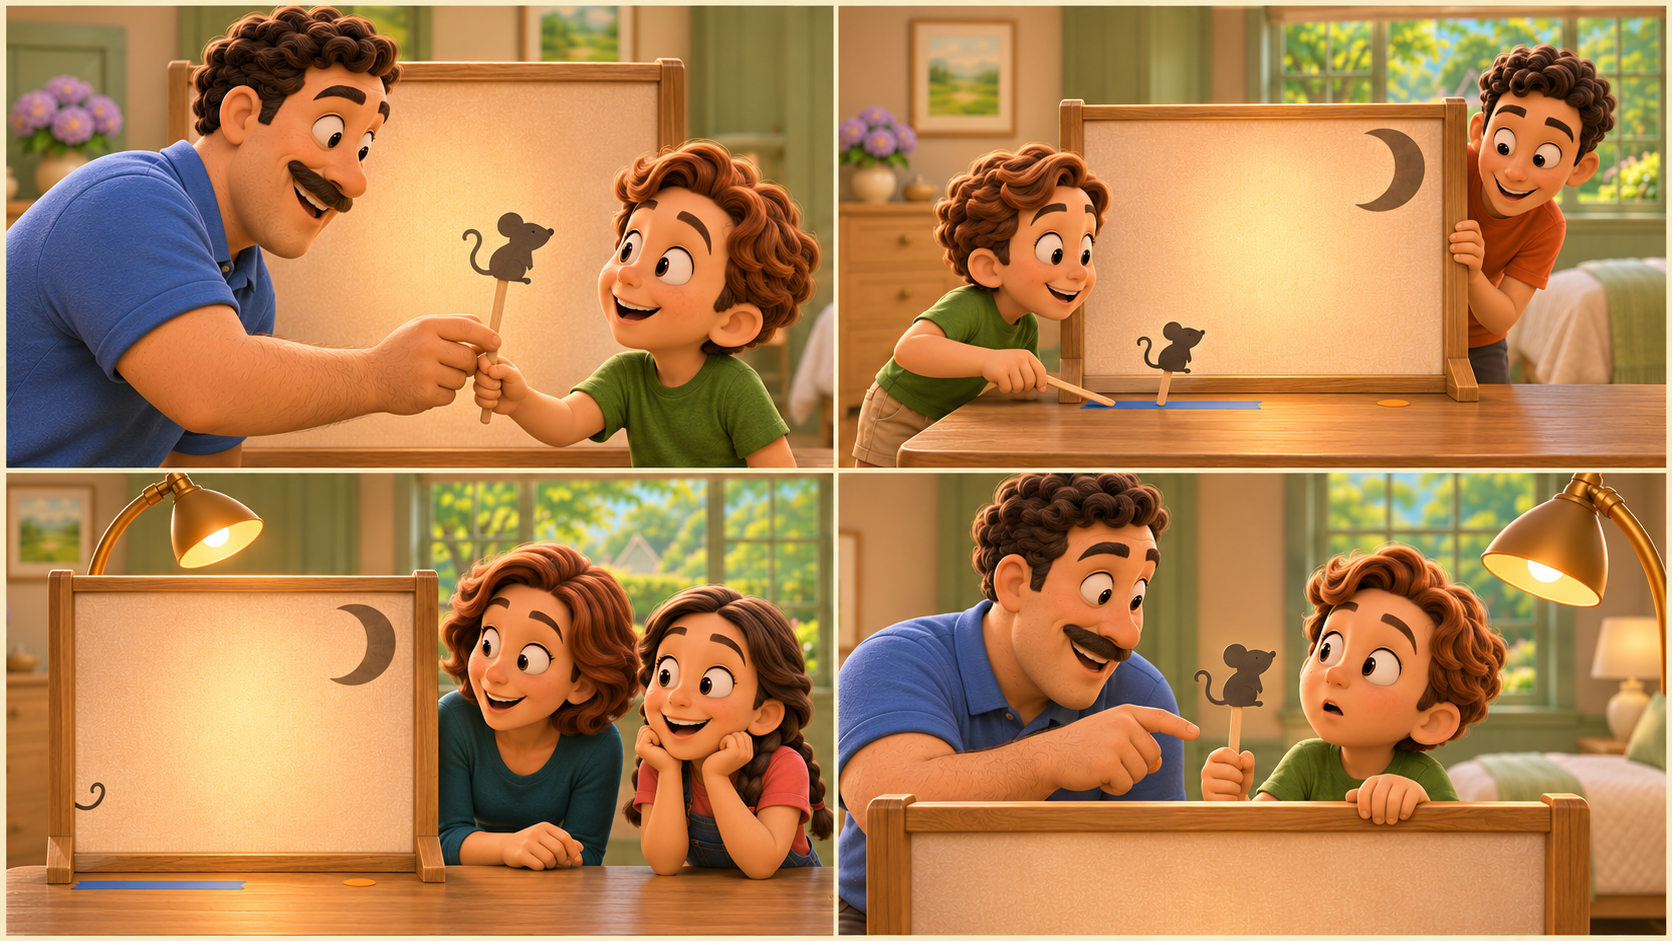
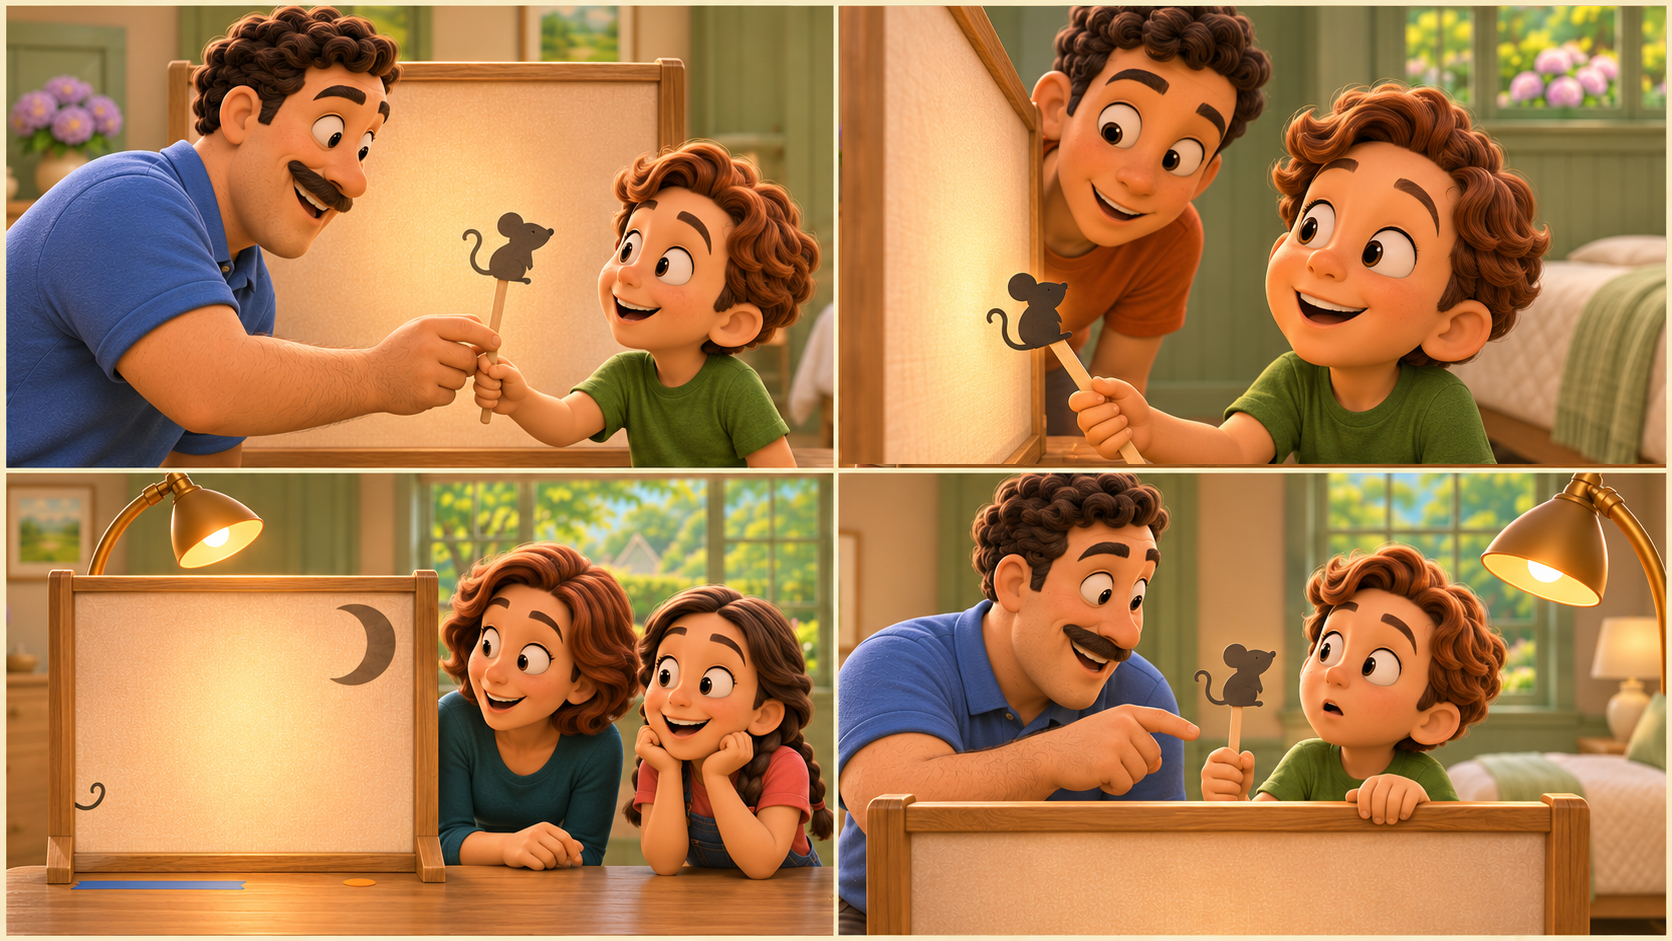
Align the puppet handoffs, left and right directions, and matching shot prompts

Changed region(s): [[0.4976, 0.0, 1.0, 0.4931]]

diff --git a/Episode_11/VIDEO_PROMPTS.md b/Episode_11/VIDEO_PROMPTS.md
@@ -803,9 +803,10 @@
 ## SHOT_034 | 00:08:15–00:08:30 | Save the big spot
 
 **Clip:** 15 seconds, 16:9. Use the named panel for the composition. Match the original family designs in W01. Let the action continue through the natural American-English dialogue.
-**Characters:** NINA, MAX, LEO. **Location:** GUEST_ROOM. **Wardrobe:** W01 only.
+**Characters:** MAX, LEO. **Location:** GUEST_ROOM. **Wardrobe:** W01 only.
+**Off-screen cast:** NINA
 **Composition:** Low insert along the table. Show the blue strip at one end and the separate orange dot at the other.
-**Action:** Nina takes the orange dot and puts it on the tabletop nearer the lamp, a hand's width in front of its base. Max looks from the dot to the little strip and grins.
+**Action:** At Nina's question from beside the table, Max takes the orange dot from Leo's backing and presses it a handspan in front of the lamp base. The boys sight the distance to the blue strip and grin.
 **Starting continuity:** The blue strip is set at the screen. Leo holds the backing with one orange dot.
 **Ending continuity:** Blue means small near the screen. Orange marks the big-shadow spot nearer the lamp.
 **Picture:** [BOARD_09.png](assets/storyboards/BOARD_09.png), panel 2 (top right). Creator and individual first-frame approval pending.
@@ -1069,7 +1070,7 @@
 
 **Clip:** 15 seconds, 16:9. Use the named panel for the composition. Match the original family designs in W01. Let the action continue through the natural American-English dialogue.
 **Characters:** ELLA, MAX. **Location:** GUEST_ROOM. **Wardrobe:** W01 only.
-**Composition:** Overhead oblique across the wooden frame. Their shoulders face each other.
+**Composition:** Sight along the narrow upright from a slightly raised angle. Include both sets of pointing hands across the frame.
 **Action:** Ella points to her left. Max moves to his own left and the last curl slips out. They can see each other's pointing hands at opposite ends of the frame.
 **Starting continuity:** Ella is on the audience side. Max operates from the other side, facing her.
 **Ending continuity:** Pip has disappeared beyond the edge. The performers have identified two different viewpoints.

diff --git a/Episode_11/STORY.md b/Episode_11/STORY.md
@@ -755,10 +755,11 @@ Pip is a palm-sized black card mouse on one craft stick. The crescent is a singl
 
 ### SHOT_034 | 00:08:15–00:08:30 | Save the big spot
 
-**Visible cast:** NINA, MAX, LEO
+**Visible cast:** MAX, LEO
+**Off-screen cast:** NINA
 **Location:** GUEST_ROOM
 **Camera:** Low insert along the table. Show the blue strip at one end and the separate orange dot at the other.
-**Action:** Nina takes the orange dot and puts it on the tabletop nearer the lamp, a hand's width in front of its base. Max looks from the dot to the little strip and grins.
+**Action:** At Nina's question from beside the table, Max takes the orange dot from Leo's backing and presses it a handspan in front of the lamp base. The boys sight the distance to the blue strip and grin.
 **Opening state:** The blue strip is set at the screen. Leo holds the backing with one orange dot.
 **End state:** Blue means small near the screen. Orange marks the big-shadow spot nearer the lamp.
 **Picture:** [BOARD_09.png](assets/storyboards/BOARD_09.png), panel 2 (top right). Creator and individual first-frame approval pending.
@@ -1000,7 +1001,7 @@ Pip is a palm-sized black card mouse on one craft stick. The crescent is a singl
 
 **Visible cast:** ELLA, MAX
 **Location:** GUEST_ROOM
-**Camera:** Overhead oblique across the wooden frame. Their shoulders face each other.
+**Camera:** Sight along the narrow upright from a slightly raised angle. Include both sets of pointing hands across the frame.
 **Action:** Ella points to her left. Max moves to his own left and the last curl slips out. They can see each other's pointing hands at opposite ends of the frame.
 **Opening state:** Ella is on the audience side. Max operates from the other side, facing her.
 **End state:** Pip has disappeared beyond the edge. The performers have identified two different viewpoints.
